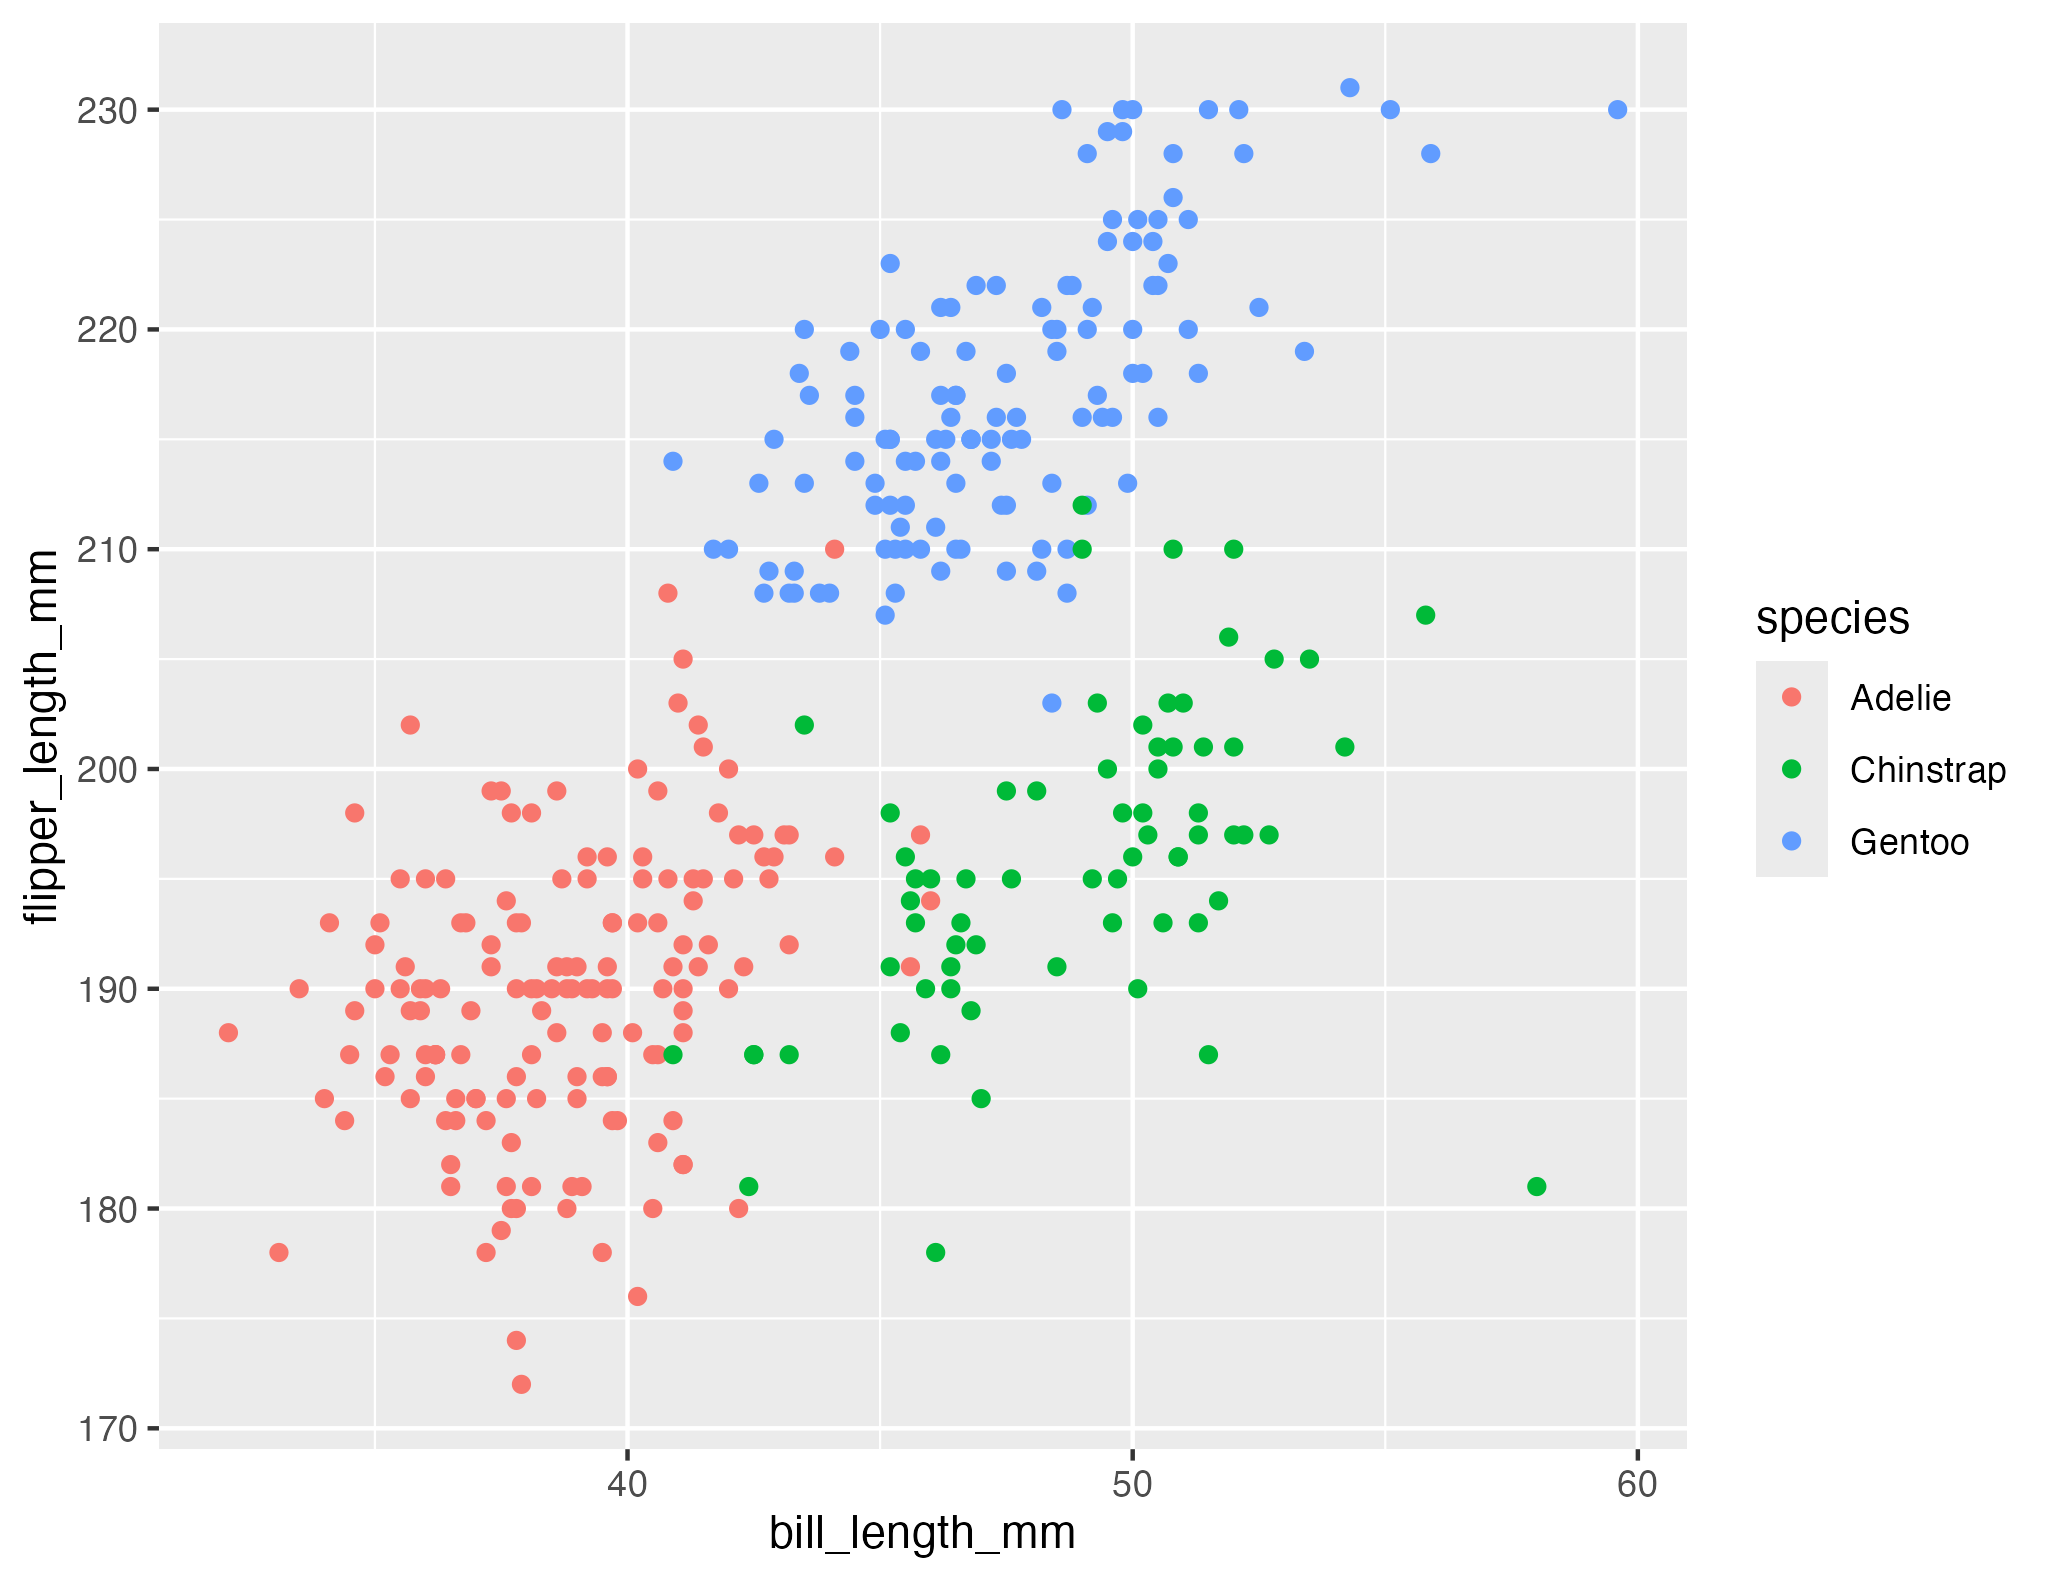
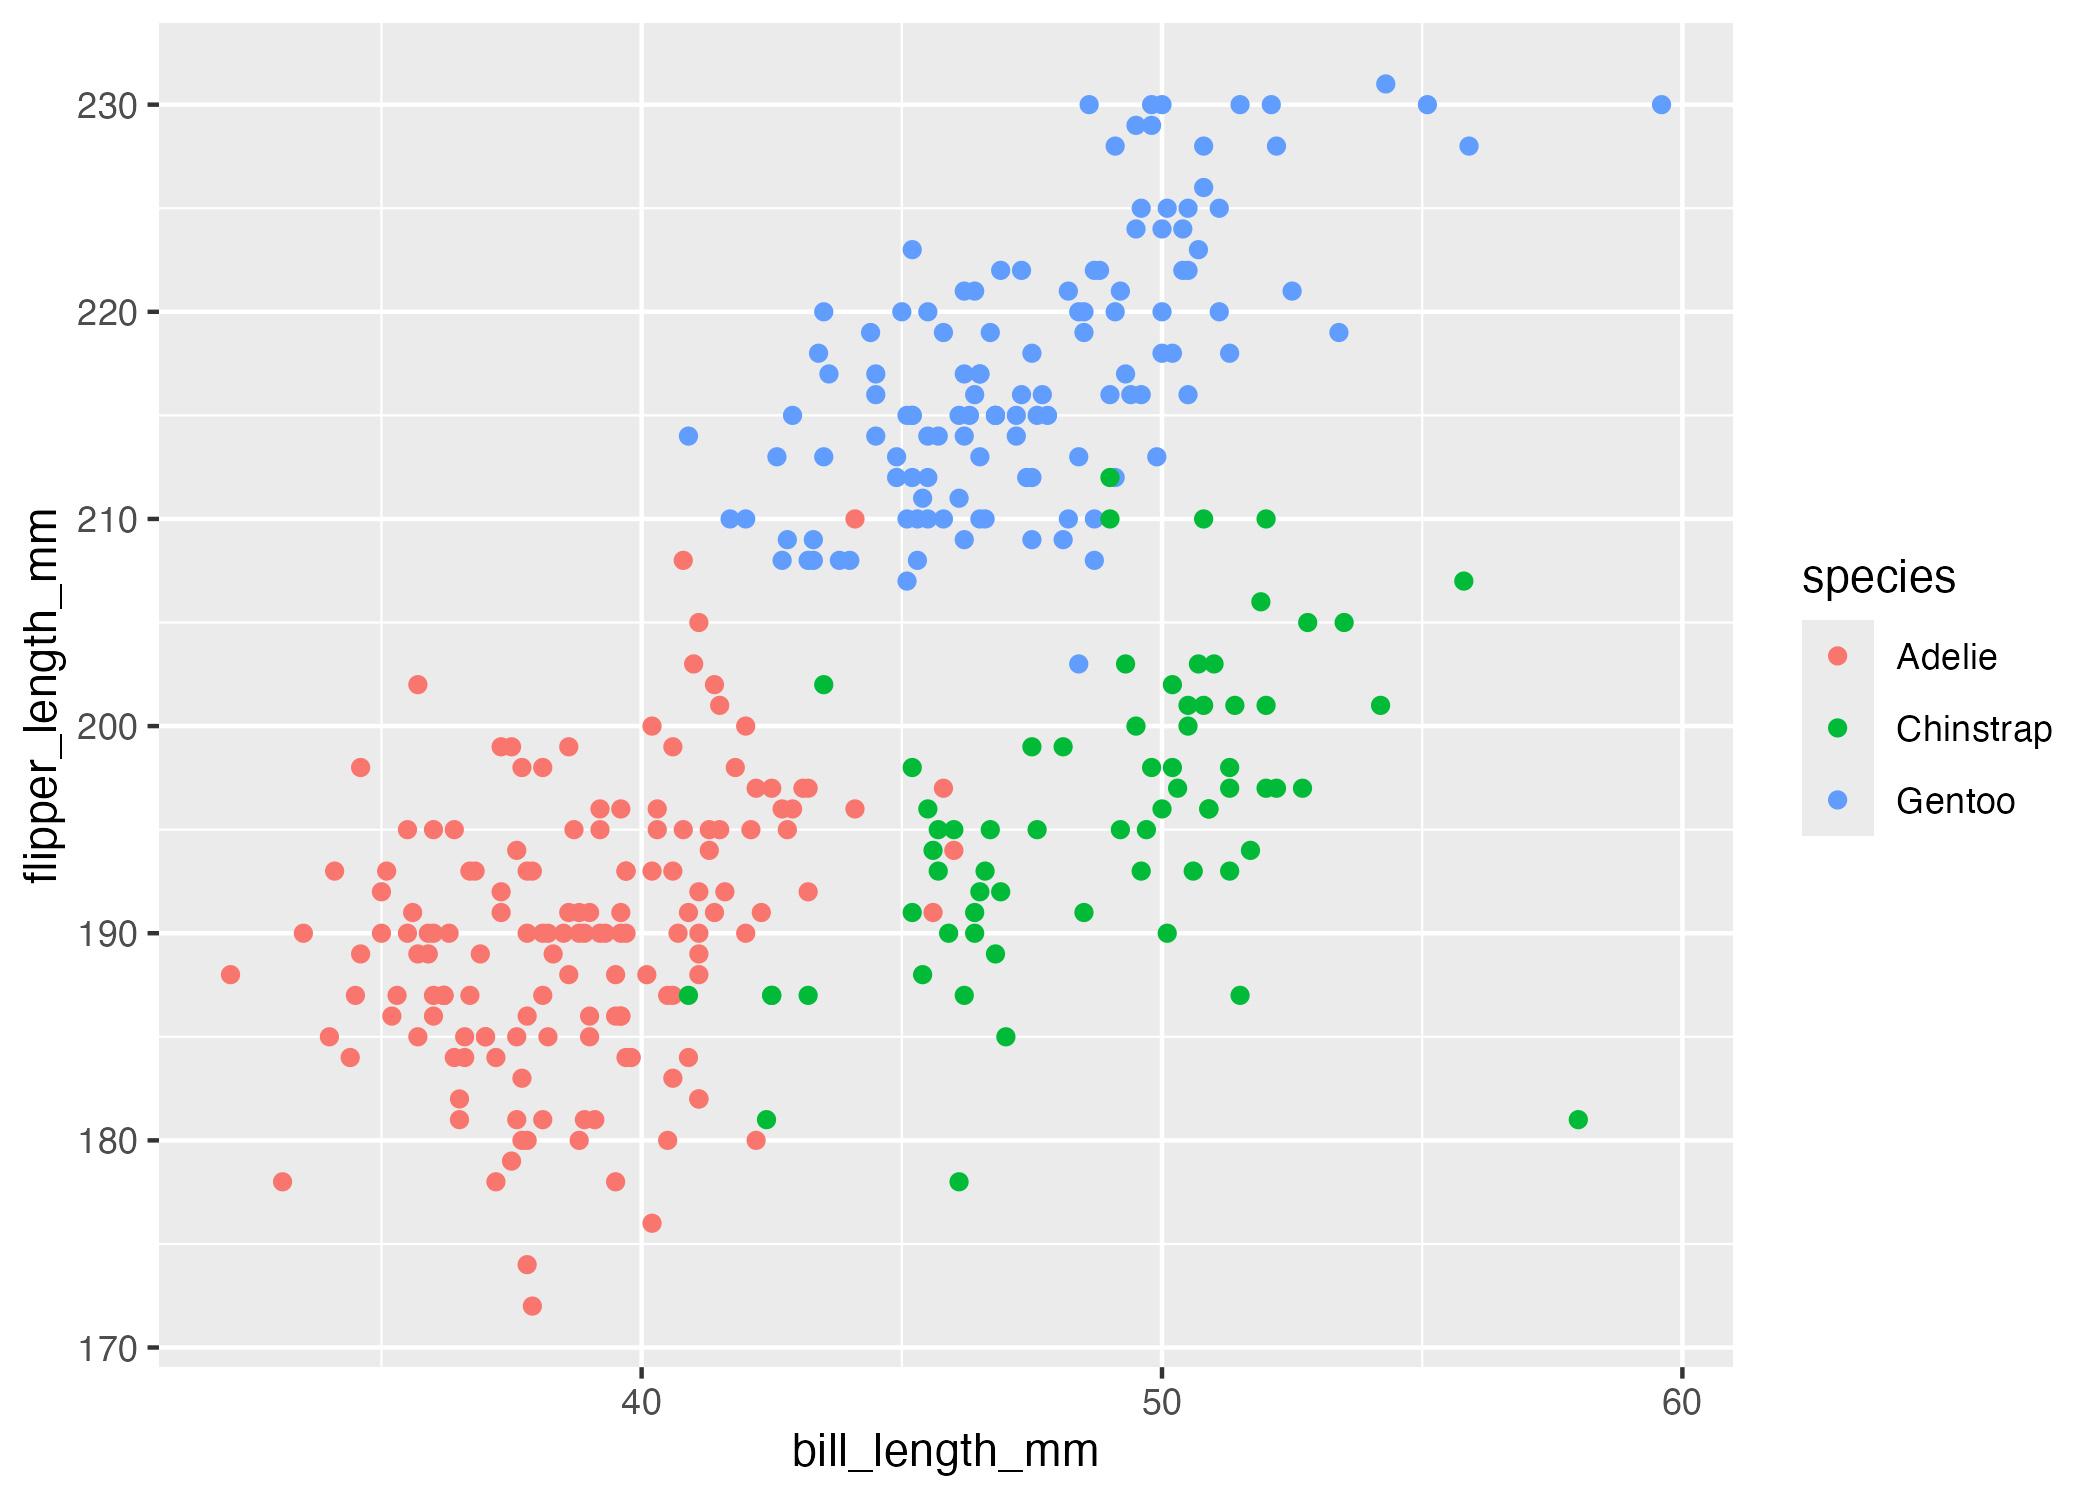
Complete Problem 2 and knit homework

diff --git a/p8105_hw1_tw3131.md b/p8105_hw1_tw3131.md
@@ -1,0 +1,116 @@
+P8105 Homework 1
+================
+Tianqing Wang
+2026-09-26
+
+\#Problem 1
+
+``` r
+data("penguins", package = "palmerpenguins")
+```
+
+The penguins dataset contains data on penguins species, island, bill
+length, bill depth, flipper length, body mass, sex and year. The species
+include “Adelie, Chinstrap, Gentoo”. The dataset contains 344
+observations and 8 variables. The mean flipper length is 200.9 mm.
+
+``` r
+ggplot(penguins, aes(x=bill_length_mm, y=flipper_length_mm, color = species))+geom_point()
+```
+
+    ## Warning: Removed 2 rows containing missing values or values outside the scale range
+    ## (`geom_point()`).
+
+![](p8105_hw1_tw3131_files/figure-gfm/penguins_scatterplot-1.png)<!-- -->
+
+``` r
+ggsave("penguins_scatterplot.png")
+```
+
+    ## Saving 7 x 5 in image
+
+    ## Warning: Removed 2 rows containing missing values or values outside the scale range
+    ## (`geom_point()`).
+
+## Problem 2
+
+``` r
+problem2_df = tibble(
+  random_sample = rnorm(10),
+  sample_positive = random_sample > 0,
+  character_vector = c(
+    "a", "b", "c", "d", "e",
+    "f", "g", "h", "i", "j"
+  ),
+  factor_vector = factor(
+    c(
+      "level1", "level1", "level1",
+      "level2", "level2", "level2",
+      "level3", "level3", "level3", "level3"
+    )
+  )
+)
+
+problem2_df
+```
+
+    ## # A tibble: 10 × 4
+    ##    random_sample sample_positive character_vector factor_vector
+    ##            <dbl> <lgl>           <chr>            <fct>        
+    ##  1       0.875   TRUE            a                level1       
+    ##  2       0.902   TRUE            b                level1       
+    ##  3       1.17    TRUE            c                level1       
+    ##  4       1.86    TRUE            d                level2       
+    ##  5       0.0932  TRUE            e                level2       
+    ##  6       0.400   TRUE            f                level2       
+    ##  7      -0.972   FALSE           g                level3       
+    ##  8       1.46    TRUE            h                level3       
+    ##  9       1.11    TRUE            i                level3       
+    ## 10      -0.00119 FALSE           j                level3
+
+``` r
+mean(pull(problem2_df, random_sample))
+```
+
+    ## [1] 0.6894765
+
+``` r
+mean(pull(problem2_df, sample_positive))
+```
+
+    ## [1] 0.8
+
+``` r
+mean(pull(problem2_df, character_vector))
+```
+
+    ## Warning in mean.default(pull(problem2_df, character_vector)): argument is not
+    ## numeric or logical: returning NA
+
+    ## [1] NA
+
+``` r
+mean(pull(problem2_df, factor_vector))
+```
+
+    ## Warning in mean.default(pull(problem2_df, factor_vector)): argument is not
+    ## numeric or logical: returning NA
+
+    ## [1] NA
+
+``` r
+as.numeric(pull(problem2_df, sample_positive))
+as.numeric(pull(problem2_df, character_vector))
+as.numeric(pull(problem2_df, factor_vector))
+```
+
+Converting the logical variable to numeric changes `TRUE` to 1 and
+`FALSE` to 0, which explains why taking the mean of the logical variable
+works.
+
+Converting the character variable to numeric does not produce meaningful
+numeric values because the character strings cannot be interpreted as
+numbers.
+
+Converting the factor variable to numeric returns the underlying integer
+codes for the factor levels rather than meaningful quantitative values.
